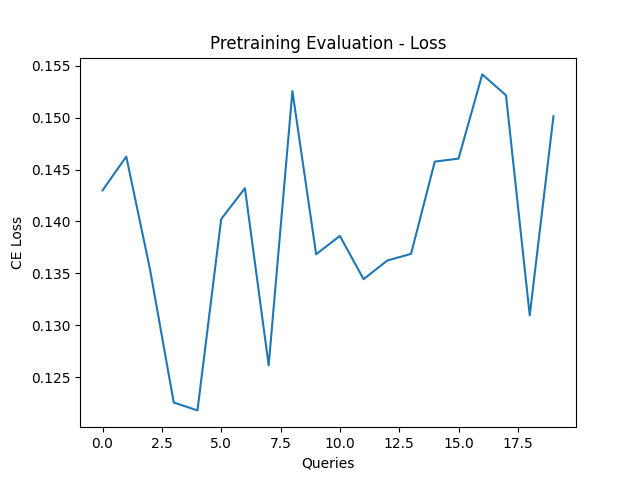
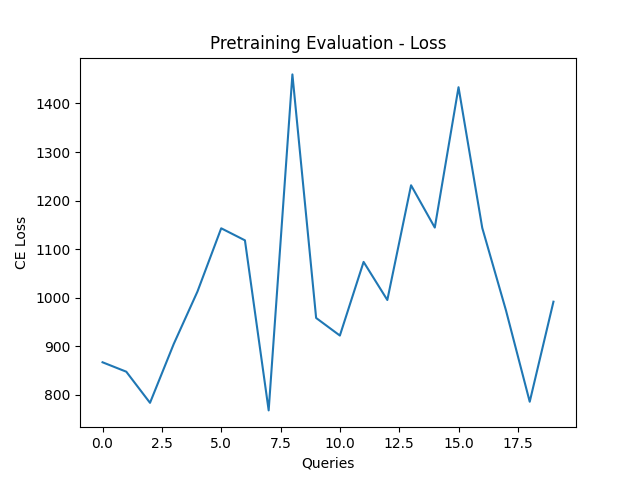
modify training loop evaluation process

diff --git a/learner.py b/learner.py
@@ -45,21 +45,19 @@ class Learner:
         losses = []
 
         for i in range(self.args.pretrain_iters):
-             # test if model can learn on only one true reward
-            # same reward used for testing and training
             if self.args.one_reward:
-                _, query_seqs, answer_seqs = self.global_data
+                # test if model can learn on only one true reward
+                # same reward used for testing and training
+                true_humans, query_seqs, answer_seqs = self.global_data
             else:
-                _, query_seqs, answer_seqs = self.dataset.get_batch_seq(batchsize=self.args.batchsize, seqlength=self.args.sequence_length)
-
-            self.optimizer.zero_grad()
+                true_humans, query_seqs, answer_seqs = self.dataset.get_batch_seq(batchsize=self.args.batchsize, seqlength=self.args.sequence_length)
 
             # get latents from queries and answers
             hidden = self.encoder.init_hidden(batchsize=self.args.batchsize)
-            loss = 0
 
             # manually handle hidden inputs for gru for sequence
             for t in range(self.args.sequence_length):
+                self.optimizer.zero_grad()
                 queries, answers = query_seqs[t, :, :].unsqueeze(0), answer_seqs[t, :, :].unsqueeze(0)
 
                 beliefs, hidden = self.encoder(queries, answers, hidden)
@@ -72,14 +70,11 @@ class Learner:
                 inputs = inputs.view(-1, self.args.query_size)
                 targets = answer_seqs[t, :].view(-1)
 
-                seq_loss = self.loss(inputs, targets)
-                loss += seq_loss
-            
-            loss /= self.args.sequence_length
-            loss.backward()     
-            losses.append(loss.item())           
+                loss = self.loss(inputs, targets)
+                loss.backward()     
+                losses.append(loss.item())           
 
-            self.optimizer.step()                
+                self.optimizer.step()       
 
             if self.args.verbose and (i+1) % 100 == 0:
                 print("Iteration %2d: Loss = %.3f" % (i + 1, loss))
@@ -105,10 +100,8 @@ class Learner:
             # when we're not doing a singular batch experiment, we select a different test batch
             if self.args.one_reward:
                 true_humans, query_seqs, answer_seqs = self.global_data
-                true_humans = true_humans.unsqueeze(0)
             else:
                 true_humans, query_seqs, answer_seqs = self.dataset.get_batch_seq(batchsize=self.args.batchsize, seqlength=self.args.sequence_length)
-                true_humans = true_humans.unsqueeze(0)
             
             hidden = self.encoder.init_hidden(batchsize=self.args.batchsize)
 
@@ -179,16 +172,15 @@ class Learner:
             # same reward used for testing and training
             if self.args.one_reward:
                 true_humans, query_seqs, answer_seqs = self.global_data
-                queries, answers = query_seqs[0].unsqueeze(0), answer_seqs[0].unsqueeze(0)
+                queries, answers = query_seqs[0], answer_seqs[0]
             else:
                 true_humans, queries, answers = self.dataset.get_batch(batchsize=self.args.batchsize)
 
             # train encoder
             for _ in range(self.args.encoder_spi):
                 
-                self.optimizer.zero_grad()
-
                 # initialize hidden and loss variables
+                self.optimizer.zero_grad()
                 hidden = self.encoder.init_hidden(batchsize=self.args.batchsize)
                 loss = 0
 
@@ -209,24 +201,21 @@ class Learner:
                     inputs = inputs.view(-1, self.args.query_size)
                     targets = curr_answers.view(-1)
 
-                    query_loss = self.loss(inputs, targets)
-                    loss += query_loss
+                    # compute loss and back propagate
+                    loss = self.loss(inputs, targets)
+                    loss.backward()     
+                    losses.append(loss.item())    
+                    self.optimizer.step()   
 
-                    # get next queries
-                    curr_queries = self.policy.run_policy(curr_queries, beliefs)
-                    # get next answers (in the case of an actual human, would be replaced with labeling step)
-                    answer_dist = response_dist(self.args, curr_queries, true_humans)
-                    curr_answers = sample_dist(answer_dist)
+                    # # get next queries
+                    # curr_queries = self.policy.run_policy(curr_queries, beliefs)
+                    # # get next answers (in the case of an actual human, would be replaced with labeling step)
+                    # answer_dist = response_dist(self.args, curr_queries, true_humans)
+                    # curr_answers = sample_dist(self.args, answer_dist)
 
-                    # reshape to have sequence dim of 1
-                    curr_queries = curr_queries.unsqueeze(0)
-                    curr_answers = curr_answers.unsqueeze(0)
-                
-                loss /= self.args.sequence_length
-                loss.backward()     
-                losses.append(loss.item())           
-
-                self.optimizer.step()                
+                    # # reshape to have sequence dim of 1
+                    # curr_queries = curr_queries.unsqueeze(0)
+                    # curr_answers = curr_answers.unsqueeze(0)             
 
             if self.args.verbose and (n+1) % 100 == 0:
                 print("Iteration %2d: Loss = %.3f" % (n+1, losses[-1]))
@@ -256,33 +245,48 @@ class Learner:
             # same reward used for testing and training
             if self.args.one_reward:
                 true_humans, query_seqs, answer_seqs = self.global_data
-                true_humans = true_humans.unsqueeze(0)
+                queries, answers = query_seqs[0], answer_seqs[0]
             else:
-                true_humans, query_seqs, answer_seqs = self.dataset.get_batch_seq(batchsize=self.args.batchsize, seqlength=self.args.sequence_length)
-                true_humans = true_humans.unsqueeze(0)
+                true_humans, queries, answers = self.dataset.get_batch(batchsize=self.args.batchsize)
 
+            # initialize hidden and loss variables
             hidden = self.encoder.init_hidden(batchsize=self.args.batchsize)
 
-            for t in range(self.args.sequence_length):
-                queries, answers = query_seqs[t, :, :].unsqueeze(0), answer_seqs[t, :, :].unsqueeze(0)
+            # manually handle hidden inputs for gru for sequence
+            curr_queries = queries.unsqueeze(0)
+            curr_answers = answers.unsqueeze(0)
 
-                # get beliefs and hidden
-                beliefs, hidden = self.encoder(queries, answers, hidden)
+            for _ in range(self.args.sequence_length):
 
-                # compute predicted response at each timestep for each sequence
-                inputs = response_dist(self.args, queries, beliefs)
+                # get beliefs from queries and answers
+                beliefs, hidden = self.encoder(curr_queries, curr_answers, hidden)
+                hidden = hidden.detach()
+
+                # compute predicted response at timestep for each query
+                inputs = response_dist(self.args, curr_queries, beliefs)
 
                 # get inputs and targets for cross entropy loss
                 inputs = inputs.view(-1, self.args.query_size)
-                targets = answer_seqs[t, :].view(-1)
+                targets = curr_answers.view(-1)
 
+                # compute metrics and store in lists
                 loss = self.loss(inputs, targets)
                 mse = self.mse(beliefs, true_humans)
                 align = alignment(beliefs, true_humans).mean()
 
-                test_losses.append(loss)
+                test_losses.append(loss.item())
                 mses.append(mse)
                 alignments.append(align)
+
+                # # get next queries
+                # curr_queries = self.policy.run_policy(curr_queries, beliefs)
+                # # get next answers (in the case of an actual human, would be replaced with labeling step)
+                # answer_dist = response_dist(self.args, curr_queries, true_humans)
+                # curr_answers = sample_dist(self.args, answer_dist)
+
+                # # reshape to have sequence dim of 1
+                # curr_queries = curr_queries.unsqueeze(0)
+                # curr_answers = curr_answers.unsqueeze(0)   
 
                 if self.args.verbose:
                     print("Query %2d: Loss = %.3f, MSE = %.3f, Alignment = %.3f" % (t, loss, mse, align))

diff --git a/configs/gridworld.py b/configs/gridworld.py
@@ -16,10 +16,15 @@ def args(rest_args):
     parser.set_defaults(visualize=False)
     parser.add_argument('--one_reward', dest='one_reward', action='store_true')
     parser.set_defaults(one_reward=False)
+    parser.add_argument('--optimal_user', dest='optimal_user', action='store_true',
+                        help='set user to be optimal based on probability distributions')
+    parser.set_defaults(optimal_user=False)
 
-    parser.add_argument('--temperature', type=float, default=1,
+    parser.add_argument('--temperature', type=float, default=.0005,
                         help='Boltzmann rationality temperature')
-
+    parser.add_argument('--m', type=float, default=100,
+                        help='how many samples for sampling from the belief distribution')
+   
     ##### POLICY #####
 
     parser.add_argument('--query_size', type=int, default=2,
@@ -37,7 +42,7 @@ def args(rest_args):
     parser.add_argument('--pretrain_iters', type=int, default=1000,
                         help='how many iterations to pretrain the vae')
     parser.add_argument('--lr', type=float, default=.01)
-    parser.add_argument('--batchsize', type=int, default=100,
+    parser.add_argument('--batchsize', type=int, default=10,
                         help='how many queries to use for VAE update')
     parser.add_argument('--sequence_length', type=int, default=20,
                         help='how long a query sequence is for RNN')

diff --git a/query/simulate.py b/query/simulate.py
@@ -2,16 +2,21 @@ import numpy as np
 import torch
 from torch.nn.functional import softmax
 
-def sample_dist(dist):
+def sample_dist(args, dist):
     probs = softmax(dist, dim=-1)
-    sample = torch.multinomial(probs, 1)
+    if args.optimal_user:
+        sample = torch.argmax(dist, dim=-1).unsqueeze(-1)
+    else:
+        sample = torch.multinomial(probs, 1)
     return sample
 
 def response_dist(args, query, w):
     trajs = torch.reshape(query, (*query.shape[:-1], args.query_size, args.num_features))
     w = w.unsqueeze(-2)
     dist = torch.sum(trajs * w, dim=-1)
+    # boltzmann rationality
     dist *= 1/args.temperature
+    # return logits, used in sample_dist later (softmax applied then)
     return dist
 
 def alignment(w1, w2):

diff --git a/storage/vae_storage.py b/storage/vae_storage.py
@@ -46,7 +46,7 @@ class VAEStorage:
         dists = response_dist(self.args, queries, true_rewards)
         answers = []
         for b in range(batchsize):
-            answers.append(sample_dist(dists[b]))
+            answers.append(sample_dist(self.args, dists[b]))
         answers = torch.stack(answers)
         
         # select the rollouts we want
@@ -69,7 +69,7 @@ class VAEStorage:
         dists = response_dist(self.args, query_seqs, true_rewards)
         answer_seqs = []
         for t in range(seqlength):
-            answer_seq = sample_dist(dists[t])
+            answer_seq = sample_dist(self.args, dists[t])
             answer_seqs.append(answer_seq)
         answer_seqs = torch.stack(answer_seqs)
 

diff --git a/models/encoder.py b/models/encoder.py
@@ -38,9 +38,10 @@ class Encoder(nn.Module):
 
     def reparameterize(self, mu, logvar):
         if self.args.sample_belief:
-            std = torch.exp(0.5*logvar)
+            std = torch.exp(0.5*logvar).repeat(self.args.m, 1, 1)
             eps = torch.randn_like(std)
-            belief = eps.mul(std).add_(mu)
+            belief = eps.mul(std).add_(mu.repeat(self.args.m, 1, 1))
+            belief = torch.mean(belief, dim=0)
             belief = belief / torch.linalg.norm(belief, dim=-1).unsqueeze(-1)
         else:
             belief = mu / torch.linalg.norm(mu, dim=-1).unsqueeze(-1)
